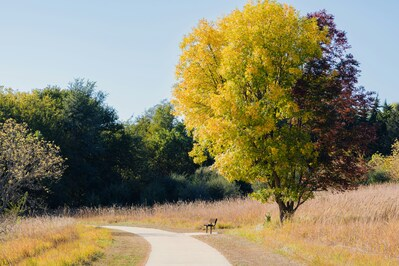
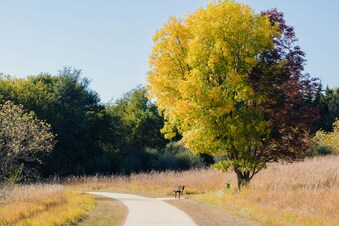
wip

diff --git a/layouts/partials/img.html b/layouts/partials/img.html
@@ -1,6 +1,6 @@
 {{ $img := resources.Get .Params.Image.Path }} {{ if ne $img nil }}
 <figure class="main-img">
-  <img loading="lazy" width="400px" src="{{ $img.RelPermalink }}" alt="" />
+  <img loading="lazy" width="340px" src="{{ $img.RelPermalink }}" alt="" />
   <figcaption class="caption">
     Image by
     <a href="{{ .Params.Image.Url }}" class="secondary"

diff --git a/layouts/partials/grid_thumb.html b/layouts/partials/grid_thumb.html
@@ -1,8 +1,8 @@
 {{ $img := resources.Get .Params.Image.Path }} {{ if ne $img nil }} {{ $img :=
-$img.Crop "400x160" }}
+$img.Crop "340x160" }}
 <img
   loading="lazy"
-  width="400px"
+  width="340px"
   class="grid-img"
   src="{{ $img.RelPermalink }}"
 />

diff --git a/layouts/partials/map.html b/layouts/partials/map.html
@@ -2,8 +2,8 @@
 <div
   id="map"
   style="
-    width: 400px;
-    height: 400px;
+    width: 340px;
+    height: 340px;
     position: relative;
     margin: 24px auto 0 auto;
   "
